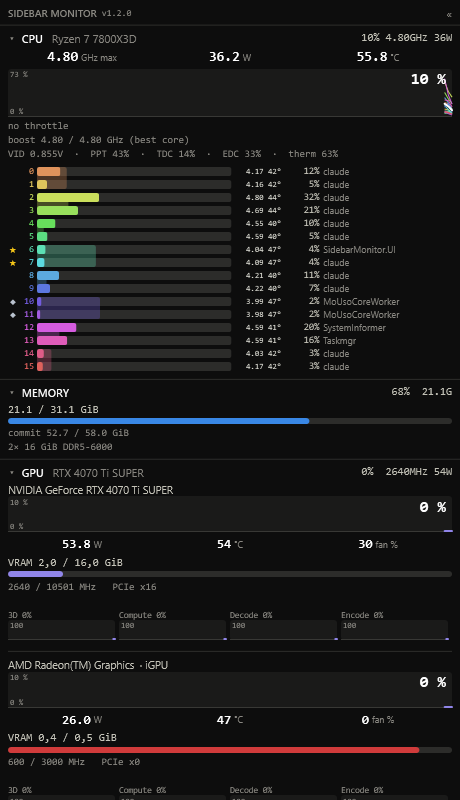
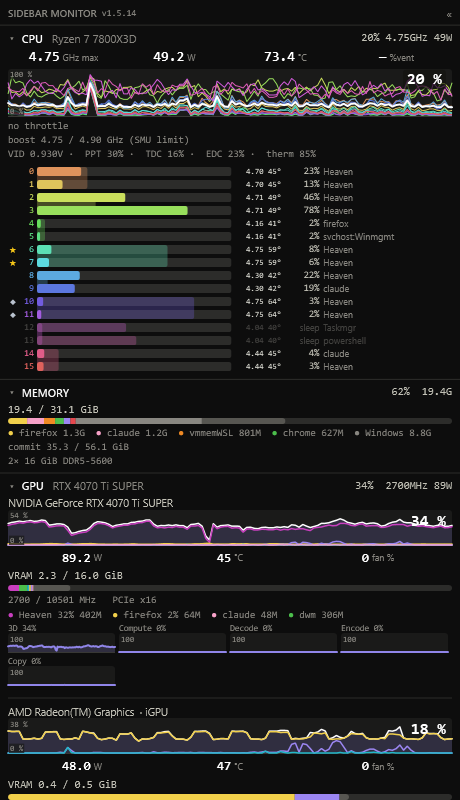
Site: new screenshots and demo GIF, the newer features, and entities that render
Fresh screenshots and demo GIF showing GPU load per process and VRAM/RAM split by process; three
feature cards (who's using it, alerts and battery, fits your desk); updated captions and a
requirements row for the RAM breakdown. Switching language wrote strings with &nbsp; or &amp; as
text, so "~2&nbsp;MB" and "NVIDIA &amp; AMD" showed literally; those now render.

diff --git a/docs/index.html b/docs/index.html
@@ -259,6 +259,21 @@
         <h3 data-i18n="feat.priv.h">Private by default</h3>
         <p data-i18n="feat.priv.p">Nothing leaves your machine. No analytics, no crash reporting, no network activity in normal use.</p>
       </div>
+      <div class="feat">
+        <div class="ic"><svg viewBox="0 0 24 24" fill="none" stroke="currentColor" stroke-width="1.7" stroke-linecap="round" stroke-linejoin="round"><path d="M3 17l5-6 4 3 5-7 4 4"/><path d="M3 21h18"/></svg></div>
+        <h3 data-i18n="feat.who.h">Who's using it</h3>
+        <p data-i18n="feat.who.p">Each GPU graph splits into a line per process, VRAM and RAM bars into a segment per process — and Windows' own share of RAM, measured page by page like RAMMap.</p>
+      </div>
+      <div class="feat">
+        <div class="ic"><svg viewBox="0 0 24 24" fill="none" stroke="currentColor" stroke-width="1.7" stroke-linecap="round" stroke-linejoin="round"><path d="M6 8a6 6 0 0 1 12 0c0 7 3 8 3 8H3s3-1 3-8"/><path d="M10 20a2 2 0 0 0 4 0"/></svg></div>
+        <h3 data-i18n="feat.alerts.h">Alerts &amp; battery</h3>
+        <p data-i18n="feat.alerts.p">A tray alert when the CPU or GPU runs hot, RAM fills up, a drive runs out of space or the battery runs low — and a battery section with the laptop's whole draw.</p>
+      </div>
+      <div class="feat">
+        <div class="ic"><svg viewBox="0 0 24 24" fill="none" stroke="currentColor" stroke-width="1.7" stroke-linecap="round" stroke-linejoin="round"><rect x="3" y="4" width="18" height="16" rx="2"/><path d="M15 4v16"/></svg></div>
+        <h3 data-i18n="feat.desk.h">Fits your desk</h3>
+        <p data-i18n="feat.desk.p">Dock it to any monitor's edge or float it; reorder, fold or hide sections; let clicks pass through; give each section its own refresh rate.</p>
+      </div>
     </div>
   </div>
 </section>
@@ -270,9 +285,10 @@
     <div class="shots">
       <figure>
         <img id="shotHero" src="img/hero-en.png" alt="CPU, memory and GPU sections">
-        <figcaption data-i18n="screens.cap1">Per-core bars coloured by process (svchost broken out by
-          service), per-core clock and temperature, best-core marker and power/thermal limits — plus
-          NVIDIA and the Ryzen iGPU with real ADLX sensors.</figcaption>
+        <figcaption data-i18n="screens.cap1">Per-core bars coloured by process, per-core clock and
+          temperature, best-core marker and power limits; RAM split by process and Windows; and each
+          GPU's load as a line per process, with its VRAM split the same way — NVIDIA and the Ryzen iGPU
+          alike.</figcaption>
       </figure>
       <figure>
         <img id="shotSections" src="img/sections-en.png" alt="Network, disks and processes sections">
@@ -317,6 +333,11 @@
           <td data-i18n="req.r4c1">Per-core process colours, per-process network</td>
           <td data-i18n="req.r4c2">The elevated helper</td>
           <td data-i18n="req.r4c3">Bars still show usage; no per-process attribution.</td>
+        </tr>
+        <tr>
+          <td data-i18n="req.r5c1">RAM broken down: kernel, mapped files, shared memory</td>
+          <td data-i18n="req.r5c2">The elevated helper</td>
+          <td data-i18n="req.r5c3">Processes and Windows still shown; the rest is one figure.</td>
         </tr>
       </tbody>
     </table>
@@ -450,11 +471,20 @@
     "feat.priv.h": {en:"Private by default", es:"Privado por defecto"},
     "feat.priv.p": {en:"Nothing leaves your machine. No analytics, no crash reporting, no network activity in normal use.",
       es:"Nada sale de tu equipo. Sin analíticas, sin informes de fallos, sin actividad de red en uso normal."},
+    "feat.who.h": {en:"Who's using it", es:"Quién lo está usando"},
+    "feat.who.p": {en:"Each GPU graph splits into a line per process, VRAM and RAM bars into a segment per process — and Windows' own share of RAM, measured page by page like RAMMap.",
+      es:"Cada gráfica de GPU se divide en una línea por proceso, y las barras de VRAM y RAM en un segmento por proceso — más la parte de RAM de Windows, medida página a página como RAMMap."},
+    "feat.alerts.h": {en:"Alerts &amp; battery", es:"Alertas y batería"},
+    "feat.alerts.p": {en:"A tray alert when the CPU or GPU runs hot, RAM fills up, a drive runs out of space or the battery runs low — and a battery section with the laptop's whole draw.",
+      es:"Un aviso en la bandeja cuando la CPU o la GPU se calientan, la RAM se llena, un disco se queda sin espacio o la batería baja — y una sección de batería con el consumo total del portátil."},
+    "feat.desk.h": {en:"Fits your desk", es:"Se adapta a tu escritorio"},
+    "feat.desk.p": {en:"Dock it to any monitor's edge or float it; reorder, fold or hide sections; let clicks pass through; give each section its own refresh rate.",
+      es:"Ánclalo al borde de cualquier monitor o déjalo flotando; ordena, pliega u oculta secciones; deja que los clics lo atraviesen; dale a cada sección su propio ritmo de refresco."},
 
     "screens.eyebrow": {en:"A look inside", es:"Un vistazo por dentro"},
     "screens.h2": {en:"One panel, everything at a glance.", es:"Un panel, todo de un vistazo."},
-    "screens.cap1": {en:"Per-core bars coloured by process (svchost broken out by service), per-core clock and temperature, best-core marker and power/thermal limits — plus NVIDIA and the Ryzen iGPU with real ADLX sensors.",
-      es:"Barras por núcleo coloreadas por proceso (svchost desglosado por servicio), frecuencia y temperatura por núcleo, marcador de mejor núcleo y límites de potencia/térmicos — más NVIDIA y la iGPU Ryzen con sensores ADLX reales."},
+    "screens.cap1": {en:"Per-core bars coloured by process, per-core clock and temperature, best-core marker and power limits; RAM split by process and Windows; and each GPU's load as a line per process, with its VRAM split the same way — NVIDIA and the Ryzen iGPU alike.",
+      es:"Barras por núcleo coloreadas por proceso, frecuencia y temperatura por núcleo, marcador de mejor núcleo y límites de potencia; RAM repartida entre procesos y Windows; y la carga de cada GPU como una línea por proceso, con su VRAM repartida igual — tanto la NVIDIA como la iGPU Ryzen."},
     "screens.cap2": {en:"Per-adapter and per-process network, per-disk temperature (NVMe + SATA) and activity, and top processes by CPU and RAM.",
       es:"Red por adaptador y por proceso, temperatura por disco (NVMe + SATA) y actividad, y los procesos top por CPU y RAM."},
 
@@ -477,6 +507,9 @@
     "req.r4c1": {en:"Per-core process colours, per-process network", es:"Colores de proceso por núcleo, red por proceso"},
     "req.r4c2": {en:"The elevated helper", es:"El ayudante elevado"},
     "req.r4c3": {en:"Bars still show usage; no per-process attribution.", es:"Las barras siguen mostrando uso; sin atribución por proceso."},
+    "req.r5c1": {en:"RAM broken down: kernel, mapped files, shared memory", es:"RAM desglosada: núcleo, archivos mapeados, memoria compartida"},
+    "req.r5c2": {en:"The elevated helper", es:"El ayudante elevado"},
+    "req.r5c3": {en:"Processes and Windows still shown; the rest is one figure.", es:"Procesos y Windows se siguen mostrando; el resto es una sola cifra."},
 
     "how.eyebrow": {en:"How it works", es:"Cómo funciona"},
     "how.h2": {en:"Three small processes, each chosen for a reason.", es:"Tres procesos pequeños, cada uno elegido por una razón."},
@@ -523,7 +556,8 @@
       if (!entry) continue;
       var v = entry[lang];
       if (v == null) continue;
-      if (v.indexOf('<') >= 0) el.innerHTML = v; else el.textContent = v;
+      // Entities too: as textContent, "~2&nbsp;MB" and "NVIDIA &amp; AMD" showed up literally.
+      if (v.indexOf('<') >= 0 || v.indexOf('&') >= 0) el.innerHTML = v; else el.textContent = v;
     }
     var hero = document.getElementById('heroImg');
     var sh = document.getElementById('shotHero');
